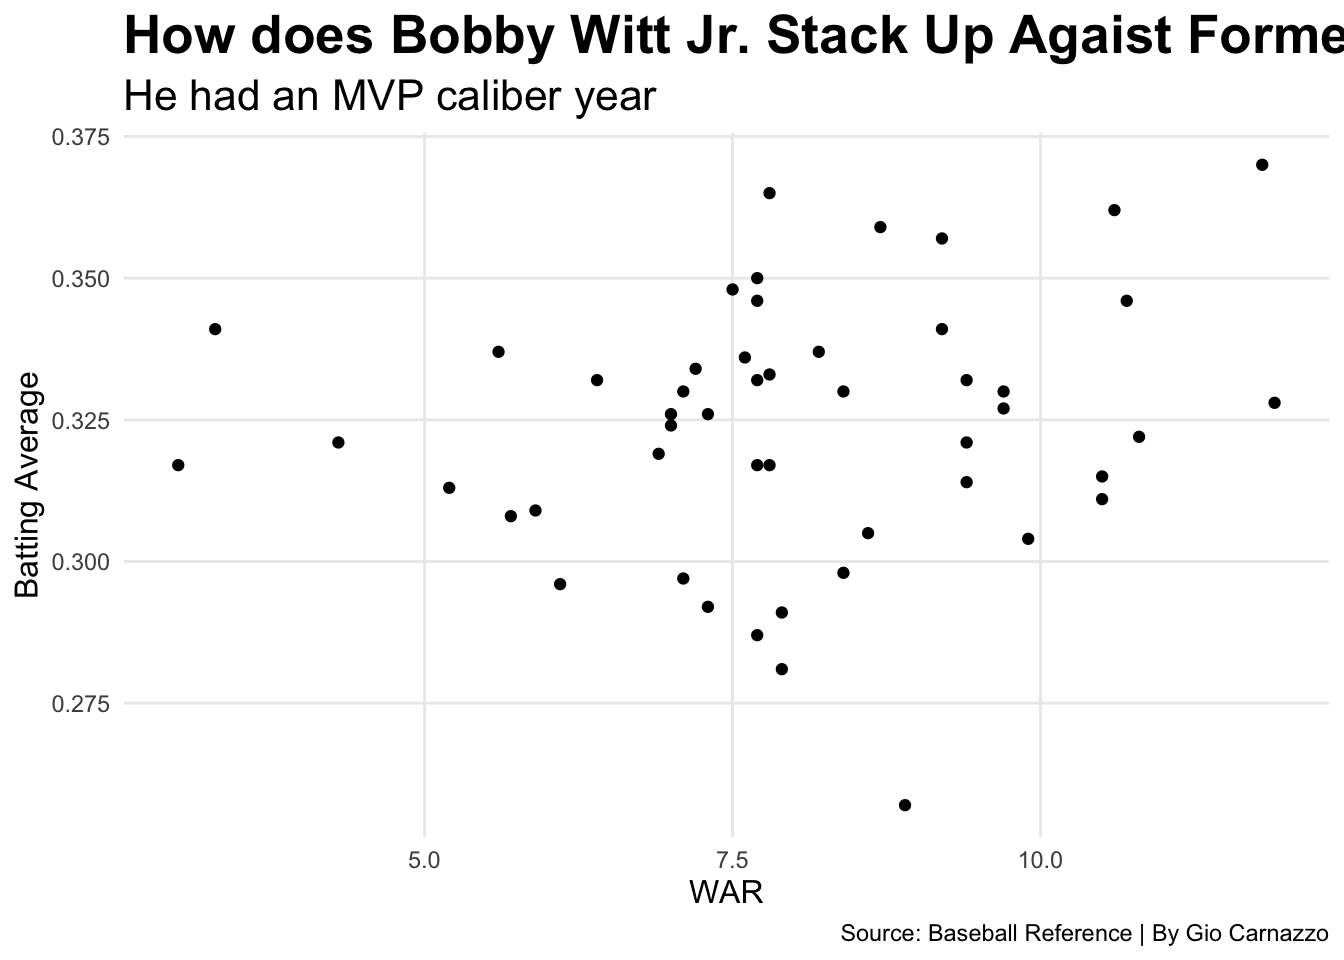
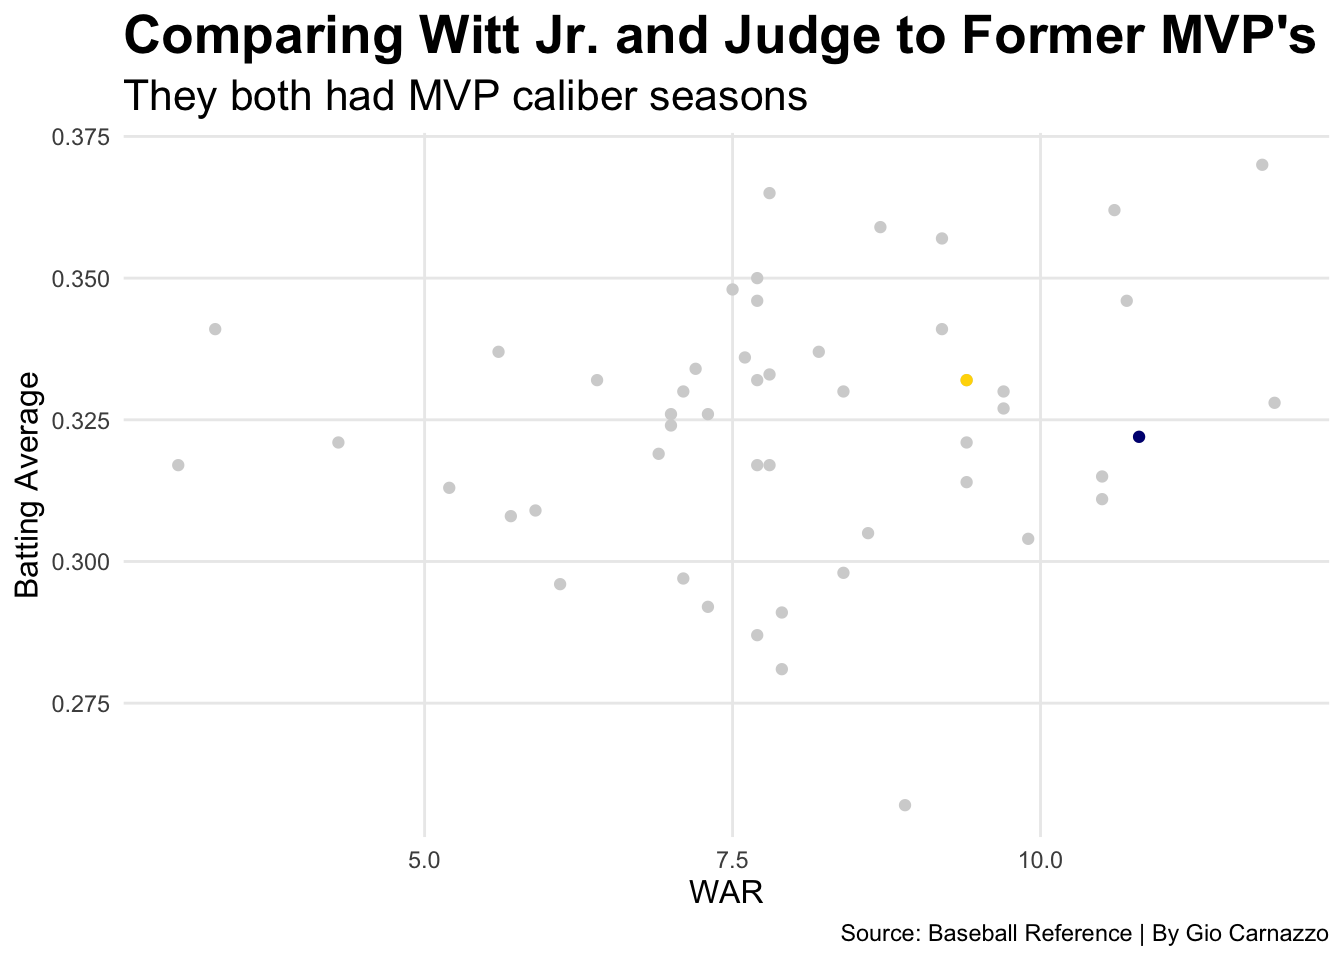
UPGRADES

diff --git a/posts/bobby-witt-jr-baseball-mlb-mvp-race/index.html b/posts/bobby-witt-jr-baseball-mlb-mvp-race/index.html
@@ -297,7 +297,7 @@ $ `Player-additional` &lt;chr&gt; "judgeaa01", "wittbo02", "ohtansh01", "hendegu
 <span id="cb8-22"><a href="#cb8-22" aria-hidden="true" tabindex="-1"></a>  <span class="fu">coord_flip</span>() <span class="sc">+</span></span>
 <span id="cb8-23"><a href="#cb8-23" aria-hidden="true" tabindex="-1"></a>  <span class="fu">labs</span>(</span>
 <span id="cb8-24"><a href="#cb8-24" aria-hidden="true" tabindex="-1"></a>    <span class="at">title =</span> <span class="st">"Bobby Witt Jr. Led the MLB in Hits"</span>,</span>
-<span id="cb8-25"><a href="#cb8-25" aria-hidden="true" tabindex="-1"></a>    <span class="at">subtitle =</span> <span class="st">"Witt Jr. outpaced Judge by a wide margin"</span>,</span>
+<span id="cb8-25"><a href="#cb8-25" aria-hidden="true" tabindex="-1"></a>    <span class="at">subtitle =</span> <span class="st">"Witt Jr. outpaced Judge by a wide margin in 2024"</span>,</span>
 <span id="cb8-26"><a href="#cb8-26" aria-hidden="true" tabindex="-1"></a>    <span class="at">caption =</span> <span class="st">"Sources: Baseball Reference | By Gio Carnazzo"</span>,</span>
 <span id="cb8-27"><a href="#cb8-27" aria-hidden="true" tabindex="-1"></a>    <span class="at">x =</span> <span class="st">"MVP Candidates"</span>,</span>
 <span id="cb8-28"><a href="#cb8-28" aria-hidden="true" tabindex="-1"></a>    <span class="at">y =</span> <span class="st">"Hits"</span>,</span>
@@ -365,21 +365,27 @@ $ `-9999` &lt;chr&gt; "bobbywitt01", "judgeaa01", "ohtansh01", "acunaro01", "jud
 <div class="sourceCode cell-code" id="cb13"><pre class="sourceCode r code-with-copy"><code class="sourceCode r"><span id="cb13-1"><a href="#cb13-1" aria-hidden="true" tabindex="-1"></a>mvp_position <span class="ot">&lt;-</span> bobby_mvp_data <span class="sc">|&gt;</span></span>
 <span id="cb13-2"><a href="#cb13-2" aria-hidden="true" tabindex="-1"></a>  <span class="fu">filter</span>(WAR <span class="sc">&gt;</span> <span class="dv">0</span> <span class="sc">&amp;</span> BA <span class="sc">&gt;</span> <span class="fl">0.2</span>)</span>
 <span id="cb13-3"><a href="#cb13-3" aria-hidden="true" tabindex="-1"></a></span>
-<span id="cb13-4"><a href="#cb13-4" aria-hidden="true" tabindex="-1"></a><span class="fu">ggplot</span>() <span class="sc">+</span> </span>
-<span id="cb13-5"><a href="#cb13-5" aria-hidden="true" tabindex="-1"></a>  <span class="fu">geom_point</span>(<span class="at">data =</span> mvp_position, <span class="fu">aes</span>(<span class="at">x =</span> WAR, <span class="at">y =</span> BA)) <span class="sc">+</span></span>
-<span id="cb13-6"><a href="#cb13-6" aria-hidden="true" tabindex="-1"></a>  <span class="fu">theme_minimal</span>() <span class="sc">+</span></span>
-<span id="cb13-7"><a href="#cb13-7" aria-hidden="true" tabindex="-1"></a>  <span class="fu">labs</span>(</span>
-<span id="cb13-8"><a href="#cb13-8" aria-hidden="true" tabindex="-1"></a>       <span class="at">x =</span> <span class="st">"WAR"</span>,</span>
-<span id="cb13-9"><a href="#cb13-9" aria-hidden="true" tabindex="-1"></a>       <span class="at">y =</span> <span class="st">"Batting Average"</span>, </span>
-<span id="cb13-10"><a href="#cb13-10" aria-hidden="true" tabindex="-1"></a>       <span class="at">title =</span> <span class="st">"How does Bobby Witt Jr. Stack Up Agaist Former MVP's?"</span>,</span>
-<span id="cb13-11"><a href="#cb13-11" aria-hidden="true" tabindex="-1"></a>       <span class="at">subtitle =</span> <span class="st">"He had an MVP caliber year"</span>,</span>
-<span id="cb13-12"><a href="#cb13-12" aria-hidden="true" tabindex="-1"></a>       <span class="at">caption=</span><span class="st">"Source: Baseball Reference | By Gio Carnazzo"</span>) <span class="sc">+</span></span>
-<span id="cb13-13"><a href="#cb13-13" aria-hidden="true" tabindex="-1"></a>  <span class="fu">theme</span>(</span>
-<span id="cb13-14"><a href="#cb13-14" aria-hidden="true" tabindex="-1"></a>    <span class="at">plot.title =</span> <span class="fu">element_text</span>(<span class="at">size =</span> <span class="dv">20</span>, <span class="at">face =</span> <span class="st">"bold"</span>),</span>
-<span id="cb13-15"><a href="#cb13-15" aria-hidden="true" tabindex="-1"></a>    <span class="at">plot.subtitle =</span> <span class="fu">element_text</span>(<span class="at">size =</span> <span class="dv">16</span>),</span>
-<span id="cb13-16"><a href="#cb13-16" aria-hidden="true" tabindex="-1"></a>    <span class="at">axis.title =</span> <span class="fu">element_text</span>(<span class="at">size =</span> <span class="dv">12</span>),</span>
-<span id="cb13-17"><a href="#cb13-17" aria-hidden="true" tabindex="-1"></a>    <span class="at">panel.grid.minor =</span> <span class="fu">element_blank</span>()</span>
-<span id="cb13-18"><a href="#cb13-18" aria-hidden="true" tabindex="-1"></a>  )</span></code><button title="Copy to Clipboard" class="code-copy-button"><i class="bi"></i></button></pre></div>
+<span id="cb13-4"><a href="#cb13-4" aria-hidden="true" tabindex="-1"></a>bob <span class="ot">&lt;-</span> mvp_position <span class="sc">|&gt;</span> <span class="fu">filter</span>(Name <span class="sc">==</span> <span class="st">"Bobby Witt Jr."</span>)</span>
+<span id="cb13-5"><a href="#cb13-5" aria-hidden="true" tabindex="-1"></a></span>
+<span id="cb13-6"><a href="#cb13-6" aria-hidden="true" tabindex="-1"></a>aj <span class="ot">&lt;-</span> mvp_position <span class="sc">|&gt;</span> <span class="fu">filter</span>(Name <span class="sc">==</span> <span class="st">"Aaron Judge"</span>, Year <span class="sc">==</span> <span class="st">"2024"</span>)</span>
+<span id="cb13-7"><a href="#cb13-7" aria-hidden="true" tabindex="-1"></a></span>
+<span id="cb13-8"><a href="#cb13-8" aria-hidden="true" tabindex="-1"></a><span class="fu">ggplot</span>() <span class="sc">+</span> </span>
+<span id="cb13-9"><a href="#cb13-9" aria-hidden="true" tabindex="-1"></a>  <span class="fu">geom_point</span>(<span class="at">data =</span> mvp_position, <span class="fu">aes</span>(<span class="at">x =</span> WAR, <span class="at">y =</span> BA), <span class="at">color=</span><span class="st">"lightgrey"</span>) <span class="sc">+</span></span>
+<span id="cb13-10"><a href="#cb13-10" aria-hidden="true" tabindex="-1"></a>  <span class="fu">geom_point</span>(<span class="at">data =</span> bob, <span class="fu">aes</span>(<span class="at">x =</span> WAR, <span class="at">y =</span> BA), <span class="at">color=</span><span class="st">"gold"</span>) <span class="sc">+</span></span>
+<span id="cb13-11"><a href="#cb13-11" aria-hidden="true" tabindex="-1"></a>  <span class="fu">geom_point</span>(<span class="at">data =</span> aj, <span class="fu">aes</span>(<span class="at">x =</span> WAR, <span class="at">y =</span> BA), <span class="at">color=</span><span class="st">"navy"</span>) <span class="sc">+</span></span>
+<span id="cb13-12"><a href="#cb13-12" aria-hidden="true" tabindex="-1"></a>  <span class="fu">theme_minimal</span>() <span class="sc">+</span></span>
+<span id="cb13-13"><a href="#cb13-13" aria-hidden="true" tabindex="-1"></a>  <span class="fu">labs</span>(</span>
+<span id="cb13-14"><a href="#cb13-14" aria-hidden="true" tabindex="-1"></a>       <span class="at">x =</span> <span class="st">"WAR"</span>,</span>
+<span id="cb13-15"><a href="#cb13-15" aria-hidden="true" tabindex="-1"></a>       <span class="at">y =</span> <span class="st">"Batting Average"</span>, </span>
+<span id="cb13-16"><a href="#cb13-16" aria-hidden="true" tabindex="-1"></a>       <span class="at">title =</span> <span class="st">"Comparing Witt Jr. and Judge to Former MVP's"</span>,</span>
+<span id="cb13-17"><a href="#cb13-17" aria-hidden="true" tabindex="-1"></a>       <span class="at">subtitle =</span> <span class="st">"They both had MVP caliber seasons"</span>,</span>
+<span id="cb13-18"><a href="#cb13-18" aria-hidden="true" tabindex="-1"></a>       <span class="at">caption=</span><span class="st">"Source: Baseball Reference | By Gio Carnazzo"</span>) <span class="sc">+</span></span>
+<span id="cb13-19"><a href="#cb13-19" aria-hidden="true" tabindex="-1"></a>  <span class="fu">theme</span>(</span>
+<span id="cb13-20"><a href="#cb13-20" aria-hidden="true" tabindex="-1"></a>    <span class="at">plot.title =</span> <span class="fu">element_text</span>(<span class="at">size =</span> <span class="dv">20</span>, <span class="at">face =</span> <span class="st">"bold"</span>),</span>
+<span id="cb13-21"><a href="#cb13-21" aria-hidden="true" tabindex="-1"></a>    <span class="at">plot.subtitle =</span> <span class="fu">element_text</span>(<span class="at">size =</span> <span class="dv">16</span>),</span>
+<span id="cb13-22"><a href="#cb13-22" aria-hidden="true" tabindex="-1"></a>    <span class="at">axis.title =</span> <span class="fu">element_text</span>(<span class="at">size =</span> <span class="dv">12</span>),</span>
+<span id="cb13-23"><a href="#cb13-23" aria-hidden="true" tabindex="-1"></a>    <span class="at">panel.grid.minor =</span> <span class="fu">element_blank</span>()</span>
+<span id="cb13-24"><a href="#cb13-24" aria-hidden="true" tabindex="-1"></a>  )</span></code><button title="Copy to Clipboard" class="code-copy-button"><i class="bi"></i></button></pre></div>
 </details>
 <div class="cell-output-display">
 <div>

diff --git a/index.html b/index.html
@@ -200,7 +200,7 @@ window.Quarto = {
 
 <div class="quarto-listing quarto-listing-container-default" id="listing-listing">
 <div class="list quarto-listing-default">
-<div class="quarto-post image-right" data-index="0" data-categories="bWxiLGJhc2ViYWxsLGthbnNhcyBjaXR5IHJveWFscw==" data-listing-date-sort="1730790000000" data-listing-file-modified-sort="1731752987307" data-listing-date-modified-sort="NaN" data-listing-reading-time-sort="2" data-listing-word-count-sort="336">
+<div class="quarto-post image-right" data-index="0" data-categories="bWxiLGJhc2ViYWxsLGthbnNhcyBjaXR5IHJveWFscw==" data-listing-date-sort="1730790000000" data-listing-file-modified-sort="1731776037420" data-listing-date-modified-sort="NaN" data-listing-reading-time-sort="2" data-listing-word-count-sort="379">
 <div class="thumbnail">
 <p><a href="./posts/bobby-witt-jr-baseball-mlb-mvp-race/index.html" class="no-external"></a></p><a href="./posts/bobby-witt-jr-baseball-mlb-mvp-race/index.html" class="no-external">
 <p><img loading="lazy" src="./posts/bobby-witt-jr-baseball-mlb-mvp-race/image.png" class="thumbnail-image"></p>
